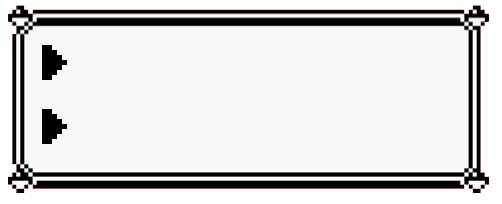
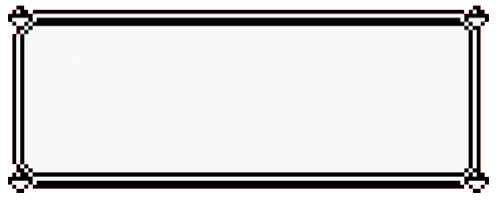
fixed battle speed calculation

Changed region(s): [[0.0598, 0.5294, 0.1494, 0.7059], [0.0598, 0.2059, 0.1494, 0.4118]]

diff --git a/PokeStand/src/battle/BattleScreen.java b/PokeStand/src/battle/BattleScreen.java
@@ -85,17 +85,12 @@ public class BattleScreen extends FullFunctionScreen{
 				
 				@Override
 				public void act() {
-					userPokemon.getMoves().get(temp).attack(enemyPokemon, PokeStart.inventory.getPokemon());
 					System.out.println("\nEnemy hp : "+enemyPokemon.getHp());
 					System.out.println("current HP is "+enemyPokemon.getCurrentHp());
-					runTurn();
+					turn(temp);
 				}
 			});
 			i++;
-		}
-		if(enemyPokemon.getSpd() > userPokemon.getSpd()) {
-			removeMoves();
-			runTurn();
 		}
 	}
 	
@@ -114,7 +109,7 @@ public class BattleScreen extends FullFunctionScreen{
 		setInfoText(loser.getName() + " has fainted.");
 	}
 	
-	public void runTurn() {
+	public void turn(int temp) {
 		Thread turn = new Thread(new Runnable() {
 			
 			
@@ -127,27 +122,37 @@ public class BattleScreen extends FullFunctionScreen{
 				}
 				
 			}
-			
-			@Override
 			public void run() {
+				System.out.println("Removing moves");
 				removeMoves();
-				determinePokemonMove();
-				pause(2);
-				currentAttack.attack(userPokemon,enemyPokemon);
-				System.out.println(currentAttack.getName());
-				pause(2);
-				setInfoText("");
-				if(!userPokemon.isAlive()) {
-					PokeStart.battleScreen.endBattle(userPokemon);
-				}else if(!enemyPokemon.isAlive()) {
-						PokeStart.battleScreen.endBattle(enemyPokemon);
+				if(enemyPokemon.getSpd() *(int)(enemyPokemon.getMultipliers()[enemyPokemon.getStageSpd()]) > userPokemon.getSpd() *(int)(userPokemon.getMultipliers()[userPokemon.getStageSpd()])) {
+					determinePokemonMove();
+					currentAttack.attack(userPokemon,enemyPokemon);
+					System.out.println(currentAttack.getName());
+					pause(2);
+					setInfoText("");
+					Inventory.pokemon.getMoves().get(temp).attack(enemyPokemon, PokeStart.inventory.getPokemon());
+					pause(2);
+					setInfoText("");
 				}else {
-				addMoves();
+					Inventory.pokemon.getMoves().get(temp).attack(enemyPokemon, PokeStart.inventory.getPokemon());
+					pause(2);
+					determinePokemonMove();
+					currentAttack.attack(userPokemon,enemyPokemon);
+					System.out.println(currentAttack.getName());
+					pause(2);
+					setInfoText("");
 				}
+				if(!enemyPokemon.isAlive()) {
+					PokeStart.battleScreen.endBattle(enemyPokemon);
+				}else {
+					addMoves();
+				}
+				
 			}
 		});
 		turn.start();
-		
+	
 	}
 	
 	@Override
@@ -193,6 +198,7 @@ public class BattleScreen extends FullFunctionScreen{
 		for(int i = 0 ; i < 4 ; i++) {
 			if(buttonArr[i] != null) {
 			viewObjects.remove(buttonArr[i]);
+			System.out.println("Removed moves");
 			buttonArr[i].setEnabled(false);
 			buttonArr[i].update();
 			}
@@ -202,6 +208,7 @@ public class BattleScreen extends FullFunctionScreen{
 	public void addMoves() {
 		for(int i = 0 ; i < 4 ; i++) {
 			viewObjects.add(buttonArr[i]);
+			System.out.println("Adding moves");
 			if(userPokemon.getMoves().get(i) != null) {
 			buttonArr[i].setEnabled(true);
 			}else {

diff --git a/PokeStand/src/garrettPokemonTraining/Move.java b/PokeStand/src/garrettPokemonTraining/Move.java
@@ -176,6 +176,7 @@ public class Move {
 				PokeStart.battleScreen.setInfoText(user.getName() + " used " + this.name + ".");
 				}
 			}else {
+				System.out.println(user + " " +this.name + " was used");
 				PokeStart.battleScreen.setInfoText(user.getName() + " used " + this.name + " but missed.");
 				}
 			}
